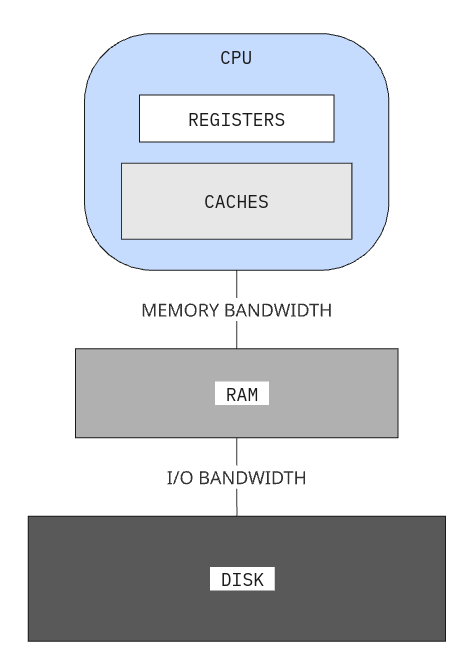
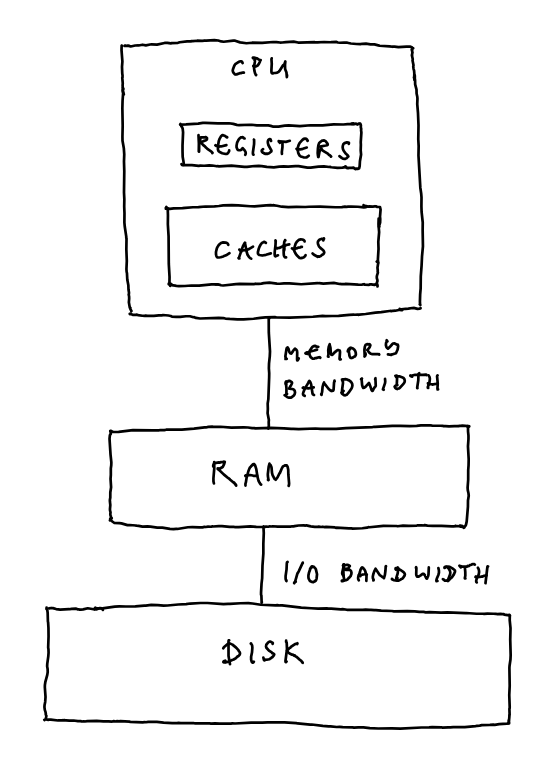
update pictures

diff --git a/content/notes/dev/performance.md b/content/notes/dev/performance.md
@@ -21,13 +21,13 @@ These basic components are nowadays extended by several levels of caches and are
 
 Also, modern processors can contain SIMD (Single Instruction Multiple Data) elements that can perform the same instruction on several data points simultaneously.
 
+The following picture shows a simplified depiction of the architecture of modern computers, here consisting of two CPUs with multiple cores. 
 Each CPU has its own memory bank, i.e. part of the shared memory. Other CPUs on the same node can also access that memory bank, but then data has to transit via a memory bus, which makes the path longer.
+The main performance bottlenecks are (1) computational capacity and (2) memory bandwidth.
 
 {{< rawhtml >}}
 <img src="/images/docs/perf-computer-architecture.png" alt="Modern computer architecture" width="100%" style="display: block; margin: auto; padding: 10px;" />
 {{< /rawhtml >}}
-
-_Simplified architecture of modern computers, here consisting of two CPUs with multiple cores. The main performance bottlenecks are 1) computational capacity, and 2) memory bandwidth._
 
 The performance of an application or algorithm can hit two main bottlenecks, concerning the following two machine capabilities.
 
